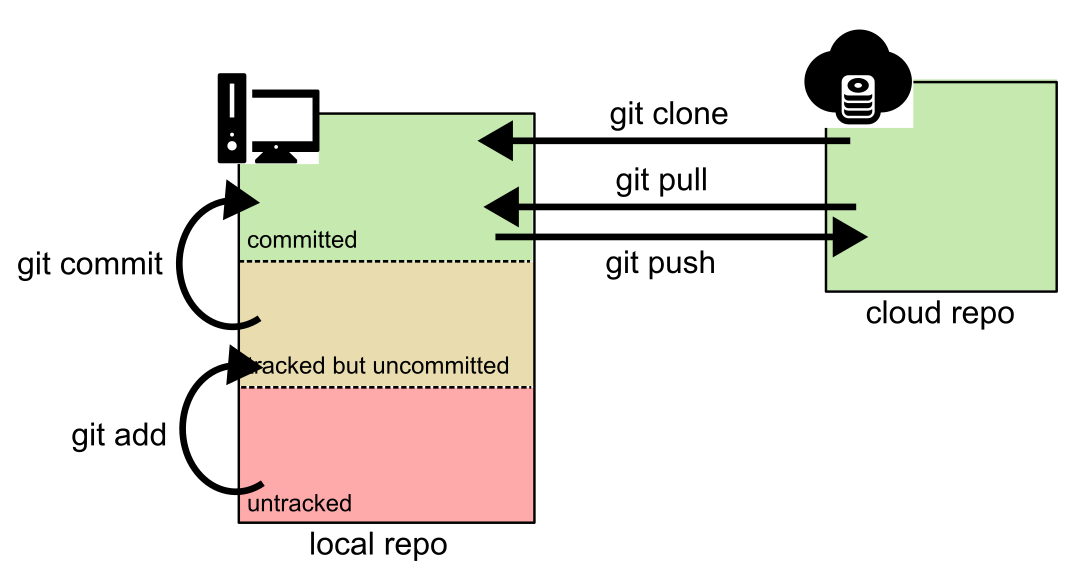
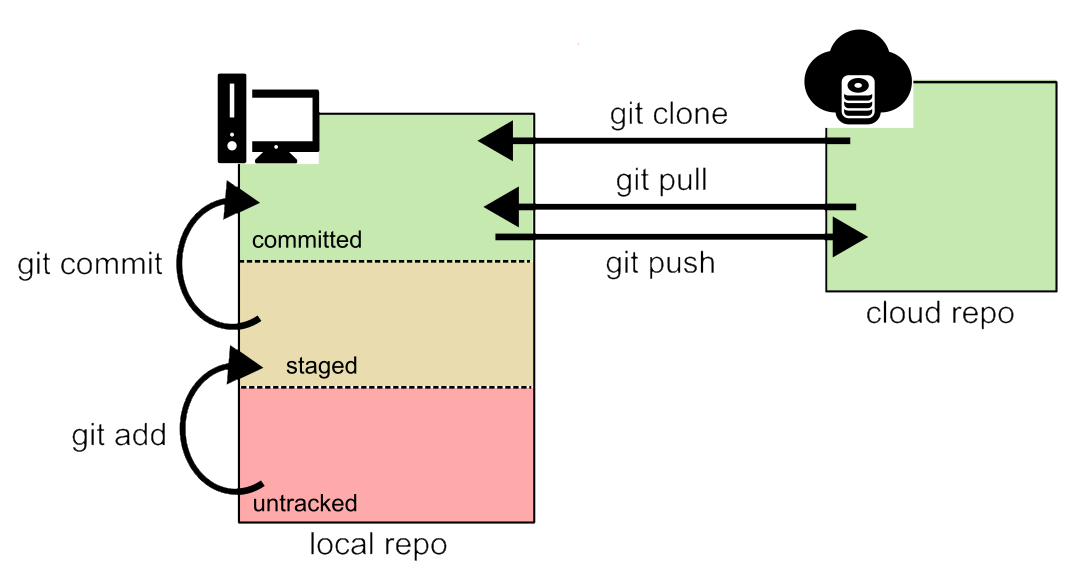
Updated technical guides

diff --git a/book/guides/git_github_guide.md b/book/guides/git_github_guide.md
@@ -1,10 +1,10 @@
 # Git and GitHub Guide
 
-Git is a version control software. Watched contents are organized as "repos" (short for repositories), and a repo is essentially a folder with a special (and hidden) `.git` directory. Git *could* be use purely locally, but a repo usually has a remote (cloud) copy also. GitHub is a common place to store such remote copies.
+Git is a version control software. Watched contents are organized as "repos" (short for repositories), and a repo is essentially a folder with a special (and hidden) `.git` directory. Git *could* be used purely locally, but a repo usually has a remote (cloud) copy also. GitHub is a popular platform for storing such remote copies.
 
 ## Conceptual introduction to git
 
-Local files on a Git repo can be in one of 3 states: untracked (no version control), tracked but uncommitted (changes are watched but not permanently recorded), and committed (changes are recorded). When a file is modified (including new file creation and existing file deletion), the changes are initially untracked. To track those changes, a `git add`  command needs to be issued on those files. And to permanently record the changes, a `git commit` command needs to be issued, which make a snapshot of all the currently tracked files in the repo.
+Local files on a Git repo can be in one of 3 states: untracked (no version control), staged (changes are tracked but not permanently recorded), and committed (changes are recorded). When a file is modified (including new file creation and existing file deletion), the changes are initially untracked. To track those changes, a `git add` command needs to be issued on those files. And to permanently record the changes, a `git commit` command needs to be issued, which make a snapshot of all the currently tracked files in the repo.
 
 To create the local repo from a remote repo, use `git clone`. To sync any updates on the remote repo to the local repo, use `git pull`. To sync any committed updates on the local repo to the remote repo, use `git push`. 
 
@@ -12,13 +12,13 @@ To create the local repo from a remote repo, use `git clone`. To sync any update
 
 ## Walkthrough of key git commands
 
-The commands below are available in the Terminal interface.
+The commands below are available in the Terminal interface. In general, the repo being operated on is the repo that contains the current working directory.
 
-+ `git status`: Show the current status of the local repo. Importantly, this will list the files that are untracked and tracked but uncommitted.
++ `git status`: Show the current status of the local repo. Importantly, this will list the files that are untracked and staged.
 
-+ `git add <pathspec>`: Add the files specified by `<pathspec>` to the collection of tracked files. Usually `<pathspec>` is either the path of a specific folder (relative to the top of the git repo), or a single dot (`.`), which add all untracked files to the collection of tracked files.
++ `git add <pathspec>`: Add the files specified by `<pathspec>` to the collection of staged files. Usually `<pathspec>` is either the relative path of a specific file/folder (relative to the top of the Git repo), or a single dot (`.`), the latter of which adds all untracked files to the collection of staged files.
 
-+ `git commit -m <message>`: Commit all the changed tracked files to permanent record. The message is used to summarize the major changes between the previous snapshot and the new snapshot, and is usually put in double quotes.
++ `git commit -m <message>`: Commit all the changed staged files to permanent record. The message is used to summarize the major changes between the previous snapshot and the new snapshot, and is usually entered in double quotes.
 
 + `git push <dest>`: Push the current snapshot to the remote repo. Most commonly `<dest>` is `origin` (no quotes), which is the location of where the repo is cloned from.
 
@@ -26,27 +26,31 @@ The commands below are available in the Terminal interface.
 
 + `git clone <repository>`: Clone the remote repo `<repository>` to the local filesystem. To get the correct url of `<repository>` on GitHub, navigate to the repo, click on the "Code <>" button, and use the copy icon to copy the https url to the repo.
 
+Note that pushing to a GitHub repo generally requires login to GitHub. Similarly, pushing, pulling, and cloning a private repo on GitHub requires authentication. Since GitHub has banned plain password authentication and since JupyterHub cannot launch sub-browsers, you should set up personal access token (PAT) for authentication, as layout in the [Git setup guide](../preliminary/git.md)
+
 ![screenshot of cloning from GitHub repo](img/git_clone_GItHub.png)
 
 ## Advanced usage: branching and merge
 
-For projects with a single developer, the above commands and usage pattern is often sufficient. However, when a project has multiple members, it is important to avoid conflicts between the work of different members, or at least to resolve them in an orderly manner. The main tool to do so in git is **branches**. Essentially, each branch of a repo serves as a distinct chain of records that do not interfere with other branches. Each branch can thus be used to develop specific set of features of the repo, and when the a set of feature is ready, it can be merged back to the main branch.
+For projects with a single developer, the above commands and usage pattern is often sufficient. However, when a project has multiple members, it is important to avoid conflicts between the work of different members, or at least to resolve them in an orderly manner. The main tool to do so in Git is **branches**. Essentially, each branch of a repo is a distinct chain of records that do not interfere with each other. Each branch can thus be used to develop specific set of features for the project, and when the set of features is ready, it can be merged back to the main branch.
 
 The main commands associated with branching are:
 
-+ `git branch <branch_name>`: Create a new branch called `<branch_name>`
-+ `git checkout <branch_name>`: Switch the branch that the current development is following to the branch `<branch_name>`
-+ `git merge <branch_name>`: Merge the currently followed branch to the branch `<branch_name>`. Usually `<branch_name>` is `main`.
++ `git branch <branch_name>`: Create a new branch called `<branch_name>`.
++ `git checkout <branch_name>`: Switch to the branch `<branch_name>`. 
++ `git merge <branch_name>`: Merge the current branch to the branch `<branch_name>`. Usually `<branch_name>` is `main`.
 
 Note that when `git merge` is executed sometimes the merge will fail and because of conflicts, and these conflicts have to be resolved manually by editing the conflicted files.
 
-A common development pattern is to have a small number of members (often a single person) specializing in merge management. When the other members completed their feature development, they commit their branch to the remote repo and make a **pull request** that notify the merge specialist to merge their development branch to the main branch. In that way the merge process itself will not create extra conflicts.
+A common development pattern is to have a small number of members (often a single person) specializing in merge management. When the other members completed their feature development, they commit their branch to the remote GitHub repo and make a **pull request** to notify the merge specialist to merge their development branch to the main branch. In that way the merge process itself will not create extra conflicts.
+
+![GitHub pull requests](img/GitHub_pull_requests.png)
 
 For more information about git commands, the official documentations and additional resources can be found on [https://git-scm.com/](https://git-scm.com/)
 
 ## Graphical user interface for Git on JupyterLab
 
-Our jupyterlab is built with the `jupyter-git` extension included. On the left panel of JupyterLab there is a tab with the Git logo. When your file navigator is pointing at folder outside of a git repo, the left panel will give you the option to clone a remote repo. If your file navigator is pointing at a location inside a git repo, the lef panel will give you the option to add, commit, push, and pull files, as well as the ability to manage branches.
+Our jupyterlab is built with the `jupyter-git` extension included. On the left panel of JupyterLab there is a tab with the Git logo. When your file navigator is pointing at folder outside of a Git repo, the left panel will give you the option to clone a remote repo. If your file navigator is pointing at a location inside a Git repo, the left panel will give you the option to add, commit, push, and pull files, as well as the ability to manage branches.
 
 ![jupyter-git repo cloning interface](img/jupyter-git_clone.png)
 

diff --git a/book/guides/storage_guide.md b/book/guides/storage_guide.md
@@ -1,14 +1,14 @@
 # Code/Data Storage Guide
 
-In general, the long-term persistence of any of the storage spaces listed below is not guaranteed. Make sure you backup all data relevant to you as the workshop comes to an end. 
+In general, the long-term persistence of any of the storage spaces listed below is not guaranteed. Make sure you backup all codes and data relevant to you as the workshop comes to an end. 
 
 ## JupyterHub environment filesystem
 
 The filesystem of our JupyterHub environment provides various places for code/data storage. In particular,
 
-+ The `shared` directory under the home directory (`/home/jovyan/shared`) is read-only and has a quota of 100 GB. This is the place where you'll find pre-loaded workshop tutorial/demo data. All participants will have read-only access to this folder and will see the same contents. If you believe that there are additional data that should be accessible to all participants, contact Wing-Ho Ko, who have write access to the folder.
++ The `shared` directory under the home directory (`/home/jovyan/shared`) is read-only and has a quota of 100 GB. This is the place where you'll find pre-loaded workshop tutorial/demo data. All participants have read-only access to this folder and see the same contents. If you believe that there are additional data that should be accessible to all participants, contact Wing-Ho Ko, who have write access to the folder.
 
-+ The rest of the home directory (`/home/jovyan`, mapped as the root on the file browser on the left) is accessible only by you and has a quota of 10 GB. This is a good place to store your codes and "small" datasets. This directory is persistent across different server instances.
++ The rest of the home directory (`/home/jovyan`, mapped as the root on JupyterLab file browsing panel) is accessible only by you and has a quota of 10 GB. This is a good place to store your codes and "small" datasets. This directory is persistent across different server instances.
 
 + The `/tmp` directory is accessible only by you and has a capacity of at least 100 GB. However, data on this directory is erased whenever the server is shutdown (either manually by you or automatically after some idle time). This directory can be useful for temporary data generated over the course of analysis.
 
@@ -16,27 +16,27 @@ The filesystem of our JupyterHub environment provides various places for code/da
 
 In addition to storage space on the JupyterHub filesystem, all participants of the workshop also have access to the Amazon bucket s3://uw-escience-scratch-prod/. This bucket has essentially unlimited storage. 
 
-Importantly, **all** participants have read and write interface to **all** files on the bucket. As basic etiquette, do not erase other people's data. In addition, your data should always be stored inside a subfolder ("prefix" in Amazon s3 lingo). For your own data, use your GitHub username as the name of the subfolder (this is automatically set as the `SCRATCH_BUCKET` variable in your home environment). For project data, derive the subfolder name from the project name.
+Importantly, **all** participants have read and write permissions to **all** files on the bucket. As basic etiquette, do not erase other people's data. In addition, your data should always be stored inside a subfolder ("prefix" in Amazon S3 lingo). For your own data, use your GitHub username as the name of the subfolder (this is automatically set as the `SCRATCH_BUCKET` variable on your server). For project data, derive the subfolder name from the project name.
 
-To read/write data on the bucket, you can either use the Terminal interface (via `aws s3` command line tool) or through python.
+To read/write data on the bucket, you can either use the Terminal interface (via the `aws s3` command-line tool) or through python.
 
 ### Terminal interface
 
-In the Terminal interface, you can use the `aws s3` command line tool to manipulate files on the s3 bucket. The interface somewhat resembles the classic Linux file operation interface. In particular,
+In the Terminal interface, you can use the `aws s3` command-line tool to manipulate files on the S3 bucket. The interface resembles somewhat the classic Linux file operation interface. In particular,
 
-+ `aws s3 ls <remote_path>` list the contents under a particular s3 path.
++ `aws s3 ls <remote_path>` lists the contents under a particular S3 path (note that the trailing slash (`/`) is required in this case).
 + `aws s3 cp <path_1> <path_2>` copies a file from path 1 (can be local or remote) to path 2 (can be local or remote).
 + `aws s3 mv <path_1> <path_2>` moves a file from path 1 (can be local or remote) to path 2 (can be local or remote).
-+ `aws s3 rm <remote_path>` removes a file located at a particular s3 path.
++ `aws s3 rm <remote_path>` removes a file located at the specified S3 path
 + `aws s3 sync <path_1> <path_2>` recursively sync the files from the directory located at path 1 (can be local or remote) to the directory located at path 2 (can be local or remote).
 
 For more information about the `aws s3` interface, consult the documentation at [https://docs.aws.amazon.com/cli/latest/reference/s3/](https://docs.aws.amazon.com/cli/latest/reference/s3/).
 
 ### Python interface
 
-The python package `s3fs` can be used manipulate files on the s3 bucket. It provides both a python interface (resembling the built-in `open()`) and Linux-like interface.
+The python package `s3fs` can be used manipulate files on the S3 bucket. It provides both a pythonic interface (resembling the built-in `open()`) and Linux-like interface.
 
-The first step for manipulating s3 bucket is to start a s3 client:
+The first step for manipulating the S3 bucket is to start an S3 client:
 
 ```python
 s3 = s3fs.S3FileSystem()
@@ -68,3 +68,5 @@ For the Linux-like interface, here are some useful functions:
 Note that `s3.put()`, `s3.get()`, `s3.cp()`, `s3.mv()`, and `s3.ls()` all have an optional `recursive` argument that allows for manipulating multiple files at once.
 
 For more information about `s3fs`, consult the documentation at [https://s3fs.readthedocs.io/en/latest/](https://s3fs.readthedocs.io/en/latest/)
+
+In addition, note that some data science packages, including `pandas` and `xarray`, have native support of opening files on S3 bucket.

diff --git a/book/guides/JupyterHub_guide.md b/book/guides/JupyterHub_guide.md
@@ -2,11 +2,11 @@
 
 To access the UW eScience JupyterHub, navigate to [https://uw-escience.2i2c.cloud/](https://uw-escience.2i2c.cloud/).
 
-The first time you do so, you will be redirected to a login page. From that page, click "Log in to continue" and supply your GitHub credential (the one you supplied to this workshop).
+The first time you do so, you will be redirected to a login page. From that page, click "Log in to continue" and supply your GitHub credential (the one you provided to this workshop).
 
 ![UW eScience log in page](img/eScience_login.png)
 
-Once you login, you will be greeted with a server spawning page. A JupyterHub environment has been created for this workshop, which should be the top option under the environment tab ("GO-BGC 2026 Workshop"). In addition, you should also select the suitable resource tier for the server. The base tier ("~7 GB RAM, ~0.9 CPUs") is usable for light data science work, but we recommend using the "~15 GB RAM, ~1.8 CPU" option as default.
+Once you login, you will be greeted with a server spawning page. A JupyterHub environment has been created for this workshop, which should be the top option under the environment tab ("GO-BGC 2026 Workshop"). In addition, you should also select a suitable resource tier for the server. The base tier ("~7 GB RAM, ~0.9 CPUs") is usable for light data science work, but we recommend using the "~15 GB RAM, ~1.8 CPU" option as a default.
 
 For your convenience, you can also use [this permealink](https://uw-escience.2i2c.cloud/hub/login?next=/hub/spawn%23fancy-forms-config=%7B%22profile%22%3A%22cpu-only%22%2C%22resource_allocation%22%3A%22mem_15_gb%22%2C%22resource_allocation%3Aunlisted_choice%22%3A%22%22%7D) to quickly select this setup.
 
@@ -14,16 +14,14 @@ Once you select your options, click "Start" to start the server, which can take 
 
 ![UW eScience server spawning page](img/eScience_spawn.png)
 
-After the server is spawned, you will be brought to a JupyterLab interface. From this interface, you can open existing files using the folder panel on the left, or bring up the launcher (if not already on) using the `+` button in the main panel. The two options from the launcher you will most likely use are Python 3 notebook (top left) and Terminal (bottom left). But also note what other options (e.g., RStudio) are available.
+After the server is spawned, you will be brought to a JupyterLab interface. From this interface, you can open existing files using the folder panel on the left, or bring up the launcher (if not already on) using the `+` button in the main panel. The two options on the launcher that you will most likely use are Python 3 notebook (top left) and the Terminal (bottom left). But also note what other options (e.g., RStudio) are available.
 
-For more on the Python 3 notebook and Terminal environment, see the [JupyterLab guide](./JupyterLab_guide.md)
+For more on the Python 3 notebook and the Terminal interfaces, see the [JupyterLab guide](./JupyterLab_guide.md)
 
 ![JupyterLab interface](img/JupyterLab_main.png)
 
-If for any reason you need to shutdown the current server and spawn a new one, use the top menu, navigate to `File >> Hub Control Panel`, which will bring up a Hub Control Panel page, from which you can stop the current server by clicking "Stop My Server".
-
+If for any reason you need to shutdown the current server and spawn a new one, use the top menu, navigate to `File >> Hub Control Panel`, which will bring up a Hub Control Panel page, from which you can stop the current server by clicking "Stop My Server". Note however that all files outside of the home directory ("/home/jovyan") will be reset, including any packages you installed.
 
 ![Access Hub Control Panel from the JupyterLab interface](img/access_Hub_control.png)
-
 
 ![Hub Control Panel](img/Hub_control_panel.png)

diff --git a/book/guides/JupyterLab_guide.md b/book/guides/JupyterLab_guide.md
@@ -4,7 +4,7 @@
 
 ### Basic Jupyter notebook manipulation
 
-A Jupyter notebook is comprised of cells. There are 3 types of cells: raw, markdown, and code. Most likely, you will interact mainly with code and markdown cells. Visually, a code cell is distinguished from the markdown cell by a gray background. The markdown cell is used for displaying richly-formatted texts, while code cell is used to execute python codes.
+A Jupyter notebook is comprised of cells. There are 3 types of cells: raw, code, and markdown. Most likely, you will interact mainly with code and markdown cells. Visually, a code cell is distinguished from the markdown cell by a gray background. A code cell is used to execute python codes, while a markdown cell is used to displaying richly-formatted texts.
 
 In general, there are two modes of operation when working with a Jupyter notebook: the **command mode** and the **edit mode**. The former is for cell-level operations while the latter is for editing the content within a cell. If you see a flashing cursor in your notebook, you are likely in the edit mode. In addition, the current cell being edited is usually indicated by a tight blue line frame, whereas in command mode the blue frame extends all the way to the left.
 
@@ -15,13 +15,13 @@ A few operations that are useful in command mode:
 + `b` inserts a cell below the current cell
 + `c` copies the content of the current cell, and `v` pastes it
 + `d` + `d` deletes the current cell
-+ `z` undoes the previous action
++ `z` undoes the previous cell-level action
 
 ### Running code in Jupyter notebook
 
 Texts inside a code cell are intended to be executed as python code. To run the codes in the current cell, press `Shift` + `Enter` in *either* edit mode or command mode. You can also use the play button (`⯈`) on the top of the main panel to execute the current cell.
 
-Importantly, the python backend ("kernel") cares only about the order you **execute the codes**, not the order they are presented in the notebook. Thus, it can be useful to occasionally restart the kernel and rerun your codes sequentially. To restart the kernel, use the refresh button (`⟳`) on the top of the main panel. You may also find the restart and run all option (`⏩`) useful, particularly before you submit your Jupyter notebook in homework, activities, etc.
+Importantly, the python backend ("kernel") cares only about the order you **execute the codes**, not the order they are presented in the notebook. Thus, it can be useful to occasionally restart the kernel and rerun your codes sequentially. To restart the kernel, use the refresh button (`⟳`) on the top of the main panel. You may also find the restart and run all option (`⏩`) useful.
 
 ### Markdown formatting
 
@@ -35,7 +35,7 @@ In a markdown cell certain characters have special meaning. Some useful examples
 
 ## Terminal interface
 
-The Terminal interface basically brings up a user linux Terminal. Thus, the usual linux commands all work as expected, including:
+The Terminal interface basically brings up a linux Terminal. Thus, the usual linux commands all work as expected, including:
 
 + `ls` for listing contents of a directory
 + `cd` for changing directory
@@ -46,5 +46,5 @@ The Terminal interface basically brings up a user linux Terminal. Thus, the usua
 
 A number of Linux programs are also installed in the environment. Notably,
 
-+ `git` for git version control (for more details, see the [Git and GitHub Guide](./git_github_guide.md))
++ `git` for Git version control (for more details, see the [Git and GitHub Guide](./git_github_guide.md))
 + `aws s3` for managing Amazon s3 bucket (for more details, see the [Data/Code Storage Guide](./storage_guide.md))
